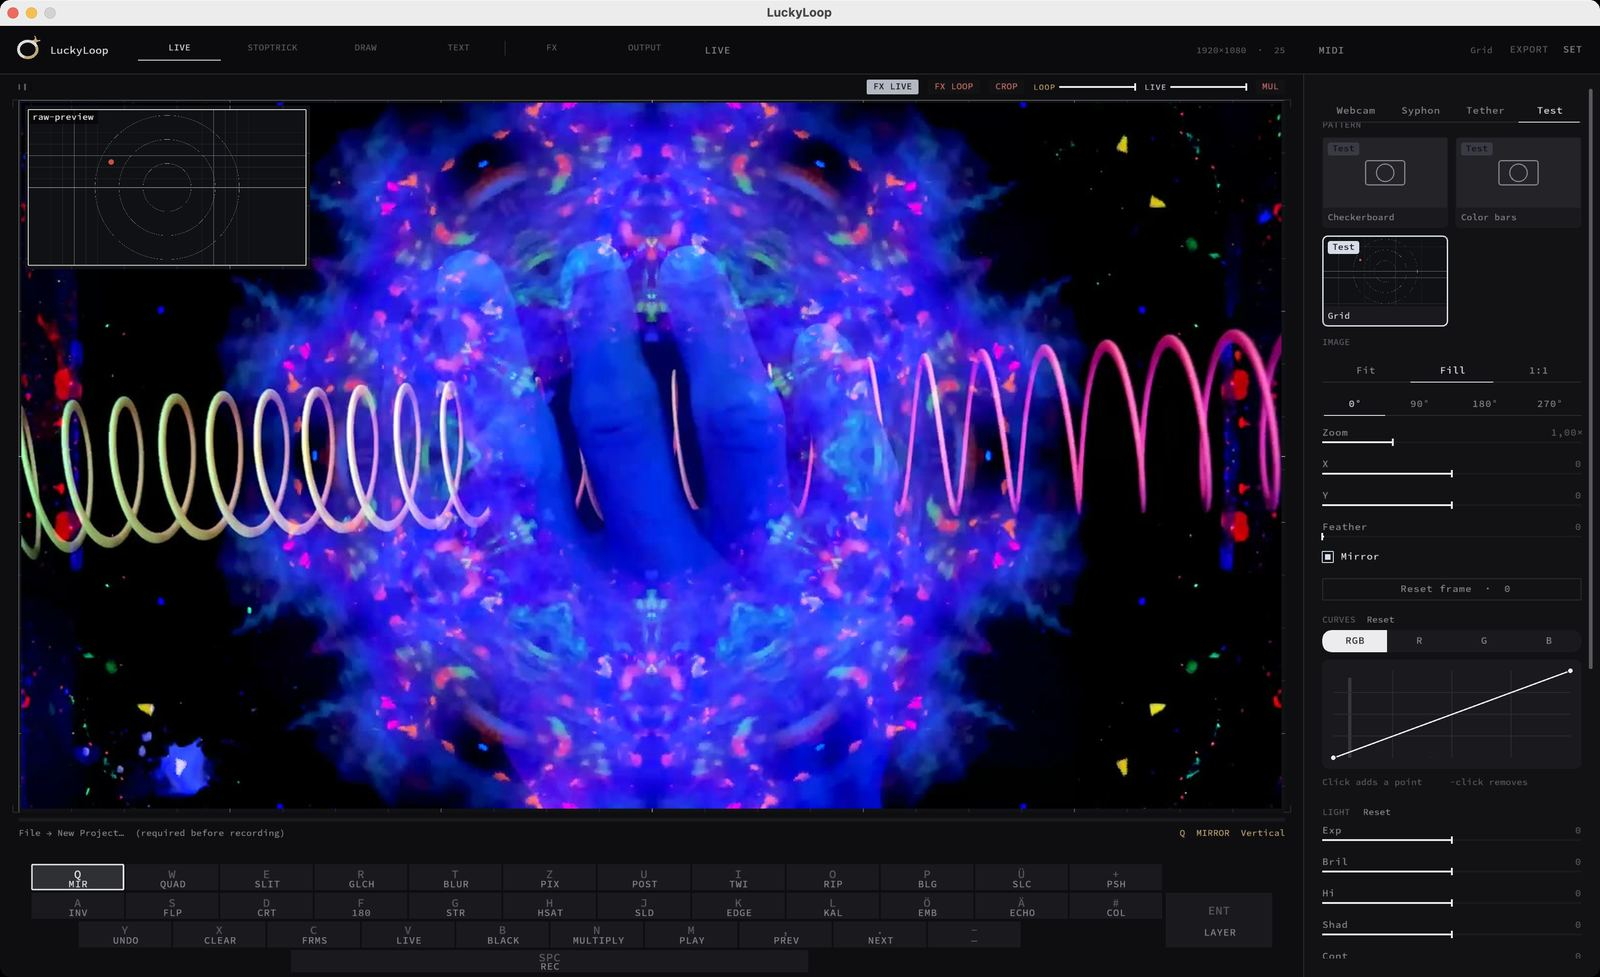
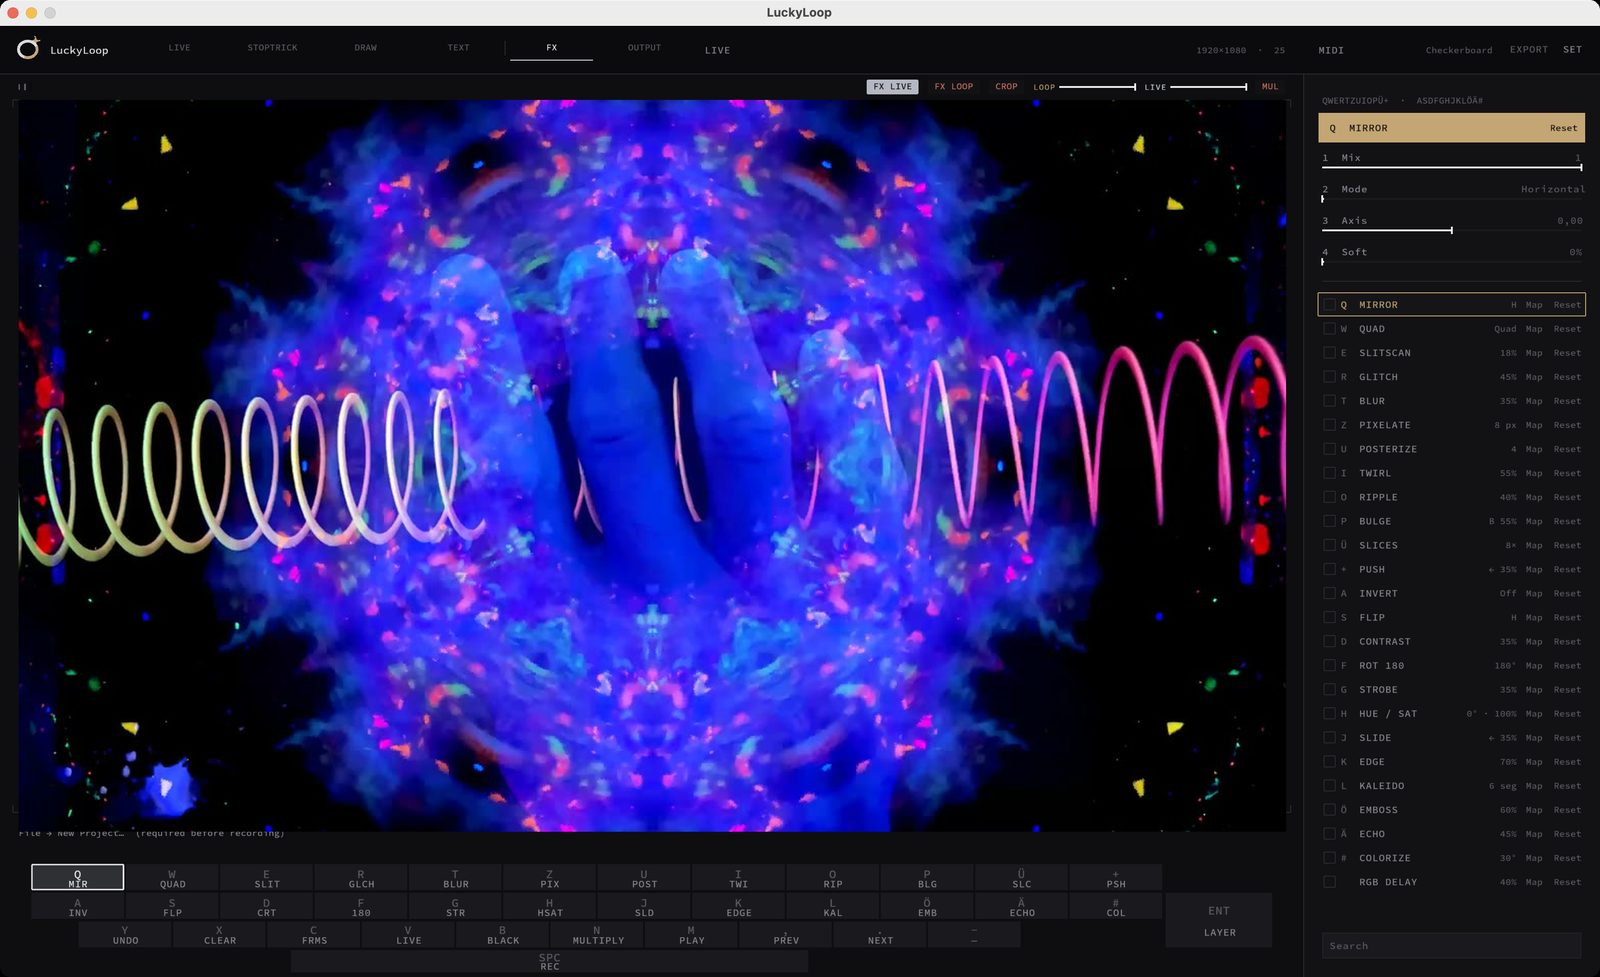
Show the FX panel in the interface picture.
The preview inset is gone, and the effect list sits on the right.

diff --git a/README.md b/README.md
@@ -4,9 +4,9 @@ LuckyLoop ist ein Live-Video-Instrument für macOS. Eine Kamera, ein iPhone oder
 
 Gebaut für improvisierte Bühnenbilder. Unten steht der Ablauf vom Auftritt **Styronauten, DH5**: Schwarzlicht, Gegenstände auf dem Tisch, Loops direkt zur Musik.
 
-Die Oberfläche. Oben die sechs Modi, unten die Tastatur, rechts Quelle, Ausschnitt und Grade. Im großen Bildfeld liegt ein Export aus dem Styronauten-Ordner, Hand und Feder. Links oben bleibt die Rohvorschau auf dem Testbild Grid.
+Die Oberfläche im Modus FX. Oben die sechs Modi, rechts die Effektliste, unten die Tastatur. Im Bildfeld liegt ein Export aus dem Styronauten-Ordner, Hand und Feder.
 
-![Oberfläche mit einem Export im Bildfeld, Rohvorschau auf dem Grid](docs/styronauten/gui-reference.jpg)
+![Oberfläche mit FX-Panel und einem Export im Bildfeld](docs/styronauten/gui-reference.jpg)
 
 ## Ablauf einer Schleife
 
